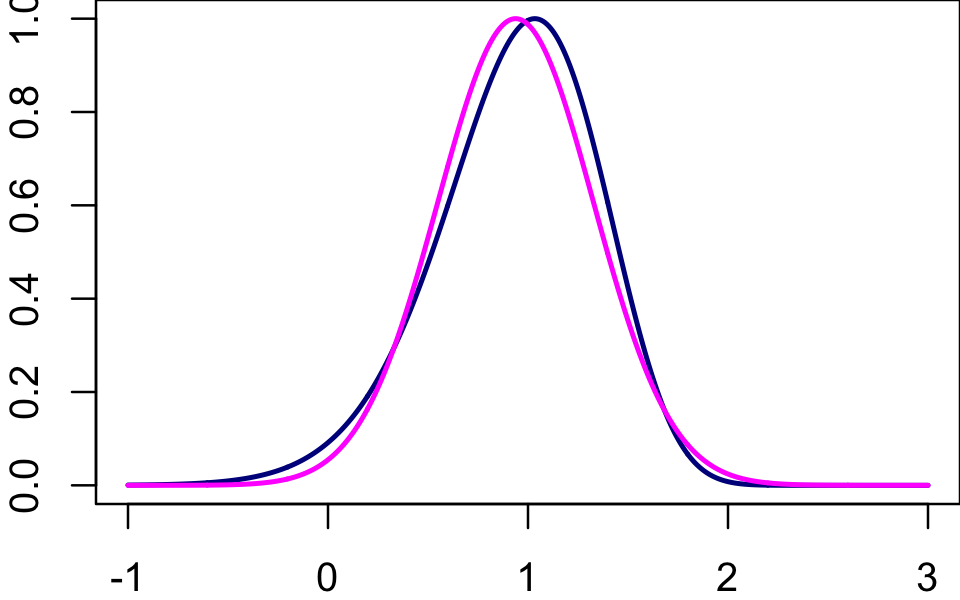
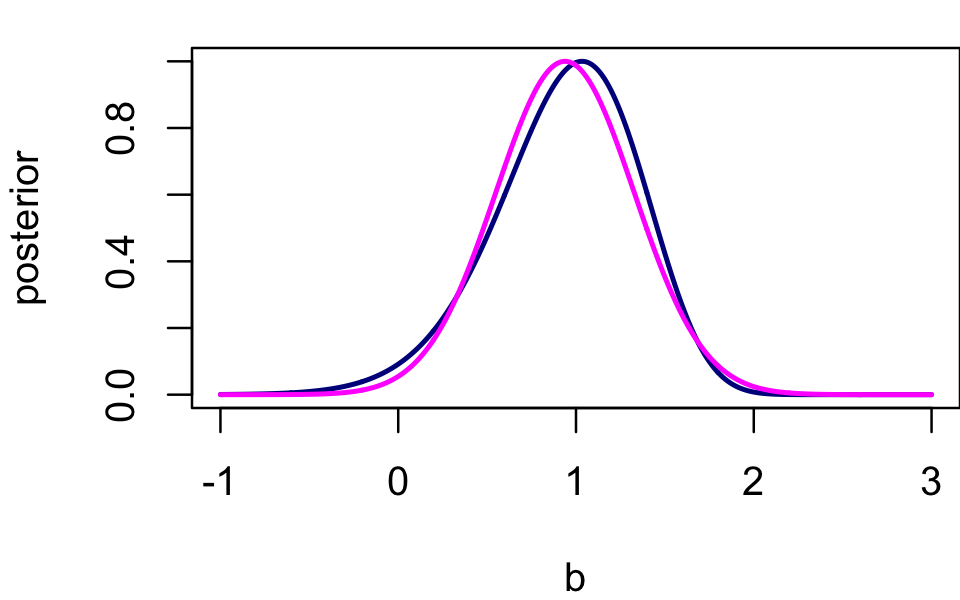
Made a few small improvements to the vgapois_demo_1d example.

diff --git a/docs/vgapois_demo_1d.html b/docs/vgapois_demo_1d.html
@@ -414,16 +414,16 @@ This reproducible <a href="http://rmarkdown.rstudio.com">R Markdown</a> analysis
 <div class="panel panel-default">
 <div class="panel-heading">
 <p class="panel-title">
-<a data-toggle="collapse" data-parent="#workflowr-checks" href="#strongRepositoryversionstrongahrefhttpsgithubcompcarbovgapoistreecf6195a829aad16d292b3242c04f5d4ad85093actargetblankcf6195aa"> <span class="glyphicon glyphicon-ok text-success" aria-hidden="true"></span> <strong>Repository version:</strong> <a href="https://github.com/pcarbo/vgapois/tree/cf6195a829aad16d292b3242c04f5d4ad85093ac" target="_blank">cf6195a</a> </a>
+<a data-toggle="collapse" data-parent="#workflowr-checks" href="#strongRepositoryversionstrongahrefhttpsgithubcompcarbovgapoistree40a9388ab2d4ea948c7e2bfb30744f7e6fbbc7a4targetblank40a9388a"> <span class="glyphicon glyphicon-ok text-success" aria-hidden="true"></span> <strong>Repository version:</strong> <a href="https://github.com/pcarbo/vgapois/tree/40a9388ab2d4ea948c7e2bfb30744f7e6fbbc7a4" target="_blank">40a9388</a> </a>
 </p>
 </div>
[2 lines of base64/hex data omitted]
 <div class="panel-body">
 <p>
 Great! You are using Git for version control. Tracking code development and connecting the code version to the results is critical for reproducibility.
 </p>
 <p>
-The results in this page were generated with repository version <a href="https://github.com/pcarbo/vgapois/tree/cf6195a829aad16d292b3242c04f5d4ad85093ac" target="_blank">cf6195a</a>. See the <em>Past versions</em> tab to see a history of the changes made to the R Markdown and HTML files.
+The results in this page were generated with repository version <a href="https://github.com/pcarbo/vgapois/tree/40a9388ab2d4ea948c7e2bfb30744f7e6fbbc7a4" target="_blank">40a9388</a>. See the <em>Past versions</em> tab to see a history of the changes made to the R Markdown and HTML files.
 </p>
 <p>
 Note that you need to be careful to ensure that all relevant files for the analysis have been committed to Git prior to generating the results (you can use <code>wflow_publish</code> or <code>wflow_git_commit</code>). workflowr only checks the R Markdown file, but you know if there are other scripts or data files that it depends on. Below is the status of the Git repository when the results were generated:
@@ -467,6 +467,57 @@ Message
 </tr>
 </thead>
 <tbody>
+<tr>
+<td>
+Rmd
+</td>
+<td>
+<a href="https://github.com/pcarbo/vgapois/blob/40a9388ab2d4ea948c7e2bfb30744f7e6fbbc7a4/analysis/vgapois_demo_1d.Rmd" target="_blank">40a9388</a>
+</td>
+<td>
+Peter Carbonetto
+</td>
+<td>
+2020-10-09
+</td>
+<td>
+workflowr::wflow_publish(“vgapois_demo_1d.Rmd”)
+</td>
+</tr>
+<tr>
+<td>
+Rmd
+</td>
+<td>
+<a href="https://github.com/pcarbo/vgapois/blob/bdce49cf6961bc774de2e5181c03d671100d8832/analysis/vgapois_demo_1d.Rmd" target="_blank">bdce49c</a>
+</td>
+<td>
+Peter Carbonetto
+</td>
+<td>
+2020-10-09
+</td>
+<td>
+Added a few comments in vgapois.R.
+</td>
+</tr>
+<tr>
+<td>
+html
+</td>
+<td>
+<a href="https://rawcdn.githack.com/pcarbo/vgapois/197bfe01b652e76c53df548b10c3c4cf12f52581/docs/vgapois_demo_1d.html" target="_blank">197bfe0</a>
+</td>
+<td>
+Peter Carbonetto
+</td>
+<td>
+2020-10-09
+</td>
+<td>
+Re-built vgapois_demo_1d analysis after some improvements.
+</td>
+</tr>
 <tr>
 <td>
 Rmd
@@ -627,7 +678,7 @@ Added workflowr files.
 </div>
 </div>
 </div>
-<p>Here we demonstrate the variational Gaussian approximation for the Poisson-normal in the simplest case when there is one unknown. Under the data model, the counts <span class="math inline">\(y_1, \ldots, y_n\)</span> are Poisson with rates <span class="math inline">\(\lambda_1, \ldots, \lambda_n\)</span>, in which <span class="math inline">\(\log \lambda_i = b_0 + x_i b\)</span>. The unknown <span class="math inline">\(b\)</span> is assigned a normal prior with zero mean and standard deviation <span class="math inline">\(\sigma_0\)</span>. Here we use variational methods to approximate the posterior of <span class="math inline">\(b\)</span> with a normal density <span class="math inline">\(N(b; \mu, s^2)\)</span>.</p>
+<p>Here we demonstrate the variational Gaussian approximation for the Poisson-normal in the simplest case when there is one unknown. Under the data model, the counts <span class="math inline">\(y_1, \ldots, y_n\)</span> are Poisson with rates <span class="math inline">\(\lambda_1, \ldots, \lambda_n\)</span>, in which <span class="math inline">\(\log \lambda_i = b_0 + x_i b\)</span>. The unknown <span class="math inline">\(b\)</span> is assigned a normal prior with zero mean and standard deviation <span class="math inline">\(\sigma_0\)</span>. Here we use variational methods to approximate the posterior of <span class="math inline">\(b\)</span> with a normal density <span class="math inline">\(N(b; \mu, s^2)\)</span>. See the [Overleaf document][oveleaf] for a more detailed description of the model and variational approximation.</p>
 <p>Load the functions implementing the variational inference algorithms and set the seed.</p>
 <pre class="r"><code>source(&quot;../code/vgapois.R&quot;)
 set.seed(1)</code></pre>
@@ -657,10 +708,13 @@ logZ &lt;- log(mean(exp(logw - a))) + a</code></pre>
 <h2>Fit variational approximation</h2>
 <p>Fit the variational Gaussian approximation by optimizing the variational lower bound (the “ELBO”).</p>
 <pre class="r"><code>fit &lt;- vgapois1(x,y,b0,s0)
+cat(fit$message,&quot;\n&quot;)
 cat(sprintf(&quot;Monte Carlo estimate:    %0.12f\n&quot;,logZ))
 cat(sprintf(&quot;Variational lower bound: %0.12f\n&quot;,-fit$value))
+# CONVERGENCE: REL_REDUCTION_OF_F &lt;= FACTR*EPSMCH 
 # Monte Carlo estimate:    -10.138730338819
 # Variational lower bound: -10.159267582586</code></pre>
+<p>Here we see that the ELBO slightly undershoots the marginal likelihood.</p>
 </div>
 <div id="compare-exact-and-approximate-posterior-distributions" class="section level2">
 <h2>Compare exact and approximate posterior distributions</h2>
@@ -670,7 +724,7 @@ b    &lt;- seq(-1,3,length.out = ns)
 logp &lt;- rep(0,ns)
 for (i in 1:ns)
   logp[i] &lt;- compute_logp_pois(x,y,b0,b[i],s0)
-par(mar = c(2,2,0,0))
+par(mar = c(4,4,1,0))
 plot(b,exp(logp - max(logp)),type = &quot;l&quot;,lwd = 2,col = &quot;darkblue&quot;,
      xlab = &quot;b&quot;,ylab = &quot;posterior&quot;)
 mu &lt;- fit$par[&quot;mu&quot;]
@@ -737,6 +791,7 @@ Peter Carbonetto
 </table>
 </div>
 </div>
+<p>The true posterior is very much “bell shaped”, so as expected the normal approximation is a good fit to the true posterior.</p>
 <br>
 <p>
 <button type="button" class="btn btn-default btn-workflowr btn-workflowr-sessioninfo" data-toggle="collapse" data-target="#workflowr-sessioninfo" style="display: block;">
